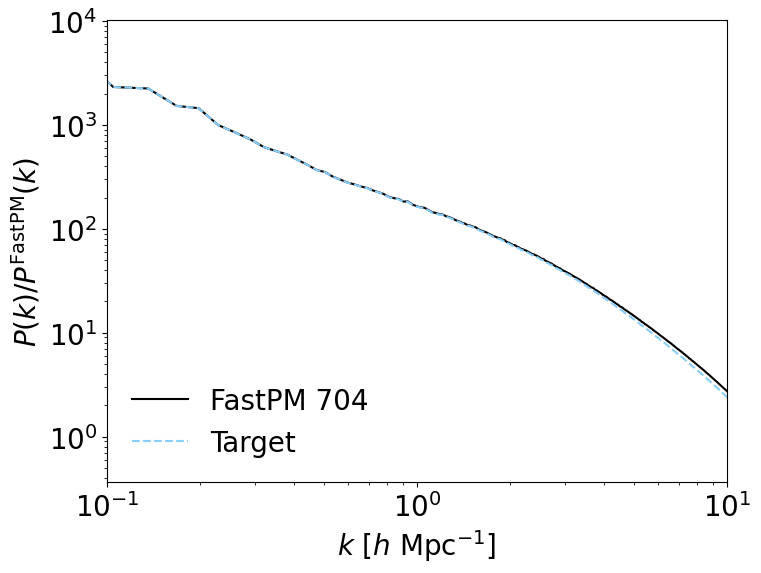
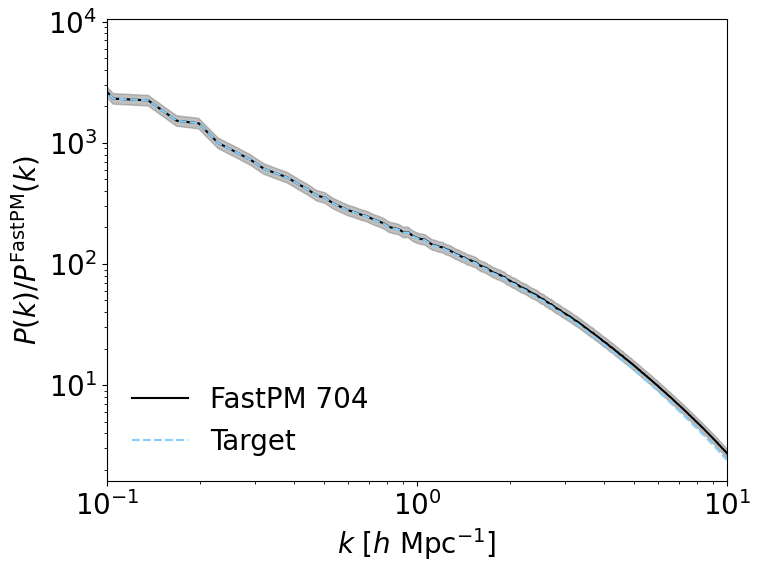
Add emcee to image

diff --git a/scripts/baryons/fit_TNG100.py b/scripts/baryons/fit_TNG100.py
@@ -1,12 +1,14 @@
 import pandas as pd
 import numpy as np
 from scipy.interpolate import interp1d
-from pathlib import Path
-from nbodykit.source.catalog.file import BigFileCatalog
 import matplotlib.pyplot as plt
 from mpi4py import MPI
+
 import os
+
+from nbodykit.source.catalog.file import BigFileCatalog
 from nbodykit.lab import FFTPower
+from wlchallenge.egd import EGD
 
 
 COMM = MPI.COMM_WORLD
@@ -98,6 +100,25 @@ def interpolate_TNG100_Pkratio(df, redshift_column, wavenumbers):
     return interpolated_power
 
 
+def get_covariance_matrix(ks, Pk):
+    """Calculate diagonal covariance matrix for power spectrum.
+
+    We assume that the covariance matrix is diagonal, so we only need to
+    calculate the variance of each power spectrum bin. The variance
+    is assumed to be given by:
+
+    .. math::
+        \mathrm{Var}(P(k)) = (0.1 * P(k)) ^ 2
+
+    As this was found to give empirically good results in Dai et al 2018.
+
+    Args:
+        ks (ndarray): Wavenumbers in h/Mpc.
+        Pk (ndarray): Power in corresponding bins.
+    """
+    return (0.1 * np.diag(Pk)) ** 2
+
+
 def plot_interpolated_Pk_ratio(df, Pkratio, colz, ks):
     title = f"Interpolated ratio at {colz}"
     fig = plt.figure(figsize=(7.2, 6.5))
@@ -137,8 +158,10 @@ def plot_interpolated_Pk_ratio(df, Pkratio, colz, ks):
     fig.savefig(f"/plots/baryons/Pkratio_interp_{colz}.pdf", bbox_inches="tight")
 
 
-def plot_PkFastPM(Pk, target_Pk):
+def plot_PkFastPM(Pk, target_Pk, cov_Pk):
     fig, ax = plt.subplots(1, 1, figsize=(8, 6))
+
+    sigma_Pk = np.sqrt(np.diag(cov_Pk))
 
     ax.loglog(
         Pk["k"],
@@ -147,6 +170,11 @@ def plot_PkFastPM(Pk, target_Pk):
         color="k",
         linestyle="-",
     )
+
+    lower = Pk["power"].real - Pk.attrs["shotnoise"] - sigma_Pk
+    upper = Pk["power"].real - Pk.attrs["shotnoise"] + sigma_Pk
+    ax.fill_between(Pk["k"], lower, upper, color="gray", alpha=0.5)
+
     ax.loglog(
         Pk["k"],
         target_Pk,
@@ -154,11 +182,28 @@ def plot_PkFastPM(Pk, target_Pk):
         color="lightskyblue",
         linestyle="--",
     )
+
     ax.legend(loc=3, frameon=False)
     ax.set_xlabel(r"$k$ [$h \ \mathrm{Mpc}^{-1}$]")
     ax.set_ylabel(r"$P(k)/ P^{\rm FastPM}(k)$")
     ax.set_xlim(0.1, 10)
-    fig.savefig("/plots/baryons/FastPM704_Pk.png", bbox_inches="tight")
+    fig.savefig("/plots/baryons/FastPM704_Pk.pdf", bbox_inches="tight")
+
+
+class FastPM_EGD_Likelihood(object):
+    def __init__(self, Pk_target, cov_Pk, cat, Nmesh=1024, kmax=10):
+        self.Pk_target = Pk_target
+        self.cov_Pk = cov_Pk
+        self.cat = cat
+        self.Nmesh = Nmesh
+        self.kmax = kmax
+        return
+
+    def __call__(self, params):
+        pos = EGD(self.cat, params[0], params[1])
+        Pk = FFTPower(pos, Nmesh=self.Nmesh, kmax=self.kmax).power
+        delta_Pk = Pk["power"].real - Pk.attrs["shotnoise"] - self.Pk_target
+        return -0.5 * np.dot(delta_Pk, np.linalg.solve(self.cov_Pk, delta_Pk))
 
 
 def main():
@@ -184,20 +229,23 @@ def main():
     cat = BigFileCatalog(
         f"{FASTPM704_SNAPSHOTS_PATH}/Om_0.3089_S8_0.8159_{a:.4f}", dataset="1"
     )
-    Pk_fastpm704 = FFTPower(cat, mode="1d", Nmesh=Nmesh_Pk).power
+    Pk_fastpm704 = FFTPower(cat, mode="1d", Nmesh=Nmesh_Pk, kmax=10).power
 
     target_Pk = (
         Pk_fastpm704["power"].real - Pk_fastpm704.attrs["shotnoise"]
     ) * interpolate_TNG100_Pkratio(df, colz, Pk_fastpm704["k"])
 
-    if RANK == 0:
-        plot_PkFastPM(Pk_fastpm704, target_Pk)
-
     # Calculate the covariance matrix (assumed diagonal).
+    cov_Pk = get_covariance_matrix(Pk_fastpm704["k"], target_Pk)
+
+    if RANK == 0:
+        plot_PkFastPM(Pk_fastpm704, target_Pk, cov_Pk)
 
     # Set up likelihood function for EGD parameters.
+    lkl = FastPM_EGD_Likelihood(target_Pk, cov_Pk, cat, Nmesh=Nmesh_Pk, kmax=10.0)
 
     # Perform sampling.
+
     return
 
 
